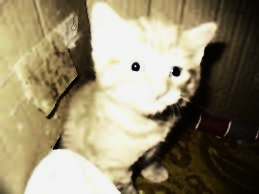
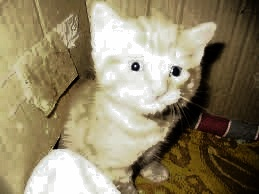
main merged

diff --git a/utils.py b/utils.py
@@ -1,0 +1,124 @@
+import cv2 as cv
+import matplotlib.pyplot as plt
+import numpy as np
+
+
+def RGB_to_intensity(img, eps=0.001):
+    bgr = np.float64(img)
+    SI = np.divide(bgr[:,:,0] + bgr[:,:,1] + bgr[:,:,2] + eps, 3 * 255)
+    return SI
+
+def intensity_to_gray(img):
+    return np.int32(np.round(img * 255, 0))
+
+def RGB_to_gray(img):
+    bgr = np.float64(img)
+    return np.int32(np.round(np.divide(bgr[:,:,0] + bgr[:,:,1] + bgr[:,:,2], 3), 0))
+
+def gray_to_intensity(img):
+    return np.divide(np.float64(img), 255)
+
+def read_img(path):
+    return cv.imread(path, cv.IMREAD_COLOR)
+
+def read_img_gray(path):
+    return cv.imread(path, cv.IMREAD_GRAYSCALE)
+
+
+def draw_matrix(matrix):
+    fig = plt.figure()
+    ax = fig.add_subplot(111, projection='3d')
+    X, Y = np.meshgrid(np.arange(matrix.shape[1]), np.arange(matrix.shape[0]))
+    ax.plot_surface(X, Y, matrix, cmap='viridis')
+    plt.show()
+
+
+def draw_2_matrixs(matrixs):
+    fig = plt.figure()
+    ax = fig.add_subplot(111, projection='3d')
+    X, Y = np.meshgrid(np.arange(matrixs[0].shape[1]), np.arange(matrixs[0].shape[0]))
+    ax.plot_surface(X, Y, matrixs[0], cmap='viridis')
+
+    fig = plt.figure()
+    bx = fig.add_subplot(111, projection='3d')
+    X, Y = np.meshgrid(np.arange(matrixs[1].shape[1]), np.arange(matrixs[1].shape[0]))
+    bx.plot_surface(X, Y, matrixs[1], cmap='viridis')
+    plt.show()
+
+
+def draw_2_matrixs_in_one(matrixs):
+    fig = plt.figure(figsize=(12,6))
+    ax = fig.add_subplot(121, projection='3d')
+    X, Y = np.meshgrid(np.arange(matrixs[0].shape[1]), np.arange(matrixs[0].shape[0]))
+    ax.plot_surface(X, Y, matrixs[0], cmap='viridis')
+    ax.set_title("figure1")
+
+    bx = fig.add_subplot(122, projection='3d')
+    X, Y = np.meshgrid(np.arange(matrixs[1].shape[1]), np.arange(matrixs[1].shape[0]))
+    bx.plot_surface(X, Y, matrixs[1], cmap='viridis')
+    bx.set_title("figure2")
+    plt.show()
+
+
+def show_image(image, title="default"):
+    cv.imshow(title, image)
+    cv.waitKey(0)
+    cv.destroyAllWindows()
+
+
+def show_images_concat(img1, img2):
+    if len(img1.shape) == 3:
+        n_rows = max(img1.shape[0], img2.shape[0])
+        canvas = np.zeros((n_rows, img1.shape[1] + img2.shape[1], img1.shape[2]), dtype=np.float64)
+
+        # 将img1和img2绘制到画布上
+        canvas[:img1.shape[0], :img1.shape[1], :] = img1
+        canvas[:img2.shape[0], img1.shape[1]:, :] = img2
+
+    else:
+        n_rows = max(img1.shape[0], img2.shape[0])
+        canvas = np.zeros((n_rows, img1.shape[1] + img2.shape[1]), dtype=np.float64)
+
+        # 将img1和img2绘制到画布上
+        canvas[:img1.shape[0], :img1.shape[1]] = img1
+        canvas[:img2.shape[0], img1.shape[1]:] = img2
+
+    # 显示画布
+    cv.imshow('Concat Image', canvas)
+    cv.waitKey(0)
+    cv.destroyAllWindows()
+
+
+def draw_histogram(hist, bins):
+    plt.figure()
+    plt.title("Histogram of Pixel Intensities")
+    plt.xlabel("Pixel Intensity")
+    plt.ylabel("Frequency")
+    plt.xlim([0, 256])  # 设置x轴的范围
+    plt.bar(bins[:-1], hist, width=1, align='edge')  # 绘制直方图
+    plt.show()
+
+
+def draw_histograms_in_one(hist1, bins1, hist2, bins2):
+    plt.figure(figsize=(12, 6))
+    plt.title("Histogram of Pixel Intensities")
+    plt.xlabel("Pixel Intensity")
+    plt.ylabel("Frequency")
+    plt.xlim([0, 256])  # 设置x轴的范围
+    plt.bar(bins1[:-1], hist1, width=1, align='edge')  # 绘制直方图1
+    plt.bar(bins2[:-1], hist2, width=1, align='edge')  # 绘制直方图2
+    plt.show()
+
+
+def restort_color(img, ori, new, eps = 0.001):
+    rows, columns = ori.shape
+    bgr = np.int32(img)
+    for i in range(rows):
+        for j in range(columns):
+            for k in range(3):
+                if ori[i][j] >= eps:
+                    bgr[i][j][k] = np.round(bgr[i][j][k] * new[i][j] / ori[i][j], 0)
+    return bgr
+
+def write_img(path, img):
+    cv.imwrite(path, img)

diff --git a/wgif.py b/wgif.py
@@ -1,4 +1,4 @@
-import cv2
+import cv2 as cv
 import numpy as np
 from math import *
 
@@ -21,8 +21,8 @@ def Grad_func(img):
         for j in range(1, img.shape[1]-1):
             Gij = []
             roi = img[i-1:i+2, j-1:j+2]
-            gx = cv2.Sobel(roi,cv2.CV_64F, 1, 0, ksize = 1)
-            gy = cv2.Sobel(roi, cv2.CV_64F, 0, 1, ksize = 1)
+            gx = cv.Sobel(roi,cv.CV_64F, 1, 0, ksize = 1)
+            gy = cv.Sobel(roi, cv.CV_64F, 0, 1, ksize = 1)
             gx = np.reshape(gx,(9, ))
             gy = np.reshape(gy,(9, ))
             Gij.append(gx)
@@ -95,14 +95,14 @@ def Weighted_Guided_Image_Filter(im, p, r, r2, eps, lamda, N):
     -------
     q : Output Image after WGIF application
     '''
-    mean_I = cv2.boxFilter(im,cv2.CV_64F,(r,r))
-    mean_I2  = cv2.boxFilter(im, cv2.CV_64F,(r2,r2))
-    mean_p = cv2.boxFilter(p, cv2.CV_64F,(r,r))
-    mean_p2 = cv2.boxFilter(p, cv2.CV_64F, (r2,r2))
+    mean_I = cv.boxFilter(im,cv.CV_64F,(r,r))
+    mean_I2  = cv.boxFilter(im, cv.CV_64F,(r2,r2))
+    mean_p = cv.boxFilter(p, cv.CV_64F,(r,r))
+    mean_p2 = cv.boxFilter(p, cv.CV_64F, (r2,r2))
     
-    corr_I = cv2.boxFilter(im*im, cv2.CV_64F,(r,r))
-    corr_I2 = cv2.boxFilter(im*im,cv2.CV_64F,(r2,r2))
-    corr_Ip = cv2.boxFilter(im*p,cv2.CV_64F,(r,r))
+    corr_I = cv.boxFilter(im*im, cv.CV_64F,(r,r))
+    corr_I2 = cv.boxFilter(im*im,cv.CV_64F,(r2,r2))
+    corr_Ip = cv.boxFilter(im*p,cv.CV_64F,(r,r))
     
     var_I = corr_I - mean_I*mean_I
     var_I2 = corr_I2 - mean_I2*mean_I2
@@ -113,8 +113,8 @@ def Weighted_Guided_Image_Filter(im, p, r, r2, eps, lamda, N):
     
     a_psi = cov_Ip/(var_I + eps/PsiI)
     b_psi = mean_p - (a_psi)*mean_I
-    mean_ap = cv2.boxFilter(a_psi,cv2.CV_64F,(r2,r2))
-    mean_bp = cv2.boxFilter(b_psi,cv2.CV_64F,(r2,r2))
+    mean_ap = cv.boxFilter(a_psi,cv.CV_64F,(r2,r2))
+    mean_bp = cv.boxFilter(b_psi,cv.CV_64F,(r2,r2))
     qp = mean_ap*im + mean_bp
     return qp
 
@@ -135,3 +135,39 @@ def get_WGIF(im):
     WGIF = Weighted_Guided_Image_Filter(im, im, r, rd, eps, lamda, N)
     return  WGIF
 
+def wgif_based_enhance(SI):
+    SIL = get_WGIF(SI)
+
+    rows, columns = SIL.shape
+    a = 1 - np.average(SIL)
+    SILG = np.zeros_like(SIL)
+    for i in range(rows):
+        for j in range(columns):
+            phi = (SIL[i][j] + a) / (1 + a)
+            SILG[i][j] = SIL[i][j] ** phi
+
+    SILGf = np.zeros_like(SILG)
+    minimum = np.min(SILG)
+    maximum = np.max(SILG)
+    for i in range(rows):
+        for j in range(columns):
+            SILGf[i][j] = (SILG[i][j] - minimum) / (maximum - minimum)
+
+    SIR = np.zeros_like(SIL)
+    for i in range(rows):
+        for j in range(columns):
+            SIR[i][j] = SI[i][j] / SIL[i][j]
+
+    SIRH = get_WGIF(SIR)
+    SIE = np.zeros_like(SIRH)
+    for i in range(rows):
+        for j in range(columns):
+            SIE[i][j] = SILGf[i][j] * SIRH[i][j]
+
+    b = np.average(SIE)
+    SIEf = np.zeros_like(SIE)
+    for i in range(rows):
+        for j in range(columns):
+            SIEf[i][j] = 1 / (1 + np.exp(-8 * (SIE[i][j] - b)))
+
+    return SIEf

diff --git a/main.py b/main.py
@@ -1,6 +1,12 @@
-from wgif import get_WGIF
-import cv2
-import numpy as np
+import wgif
+import utils
+import basic_he
+
+DRAW_HISTOGRAM = False
+DRAW_PICS = False
+DRAW_3D_MAP = False
+METHOD = ["Histogram_Equalize", "WGIF_Based_Enhance"][0]
+RESTORT_COLOR = True
 
 
 pic_list = [
@@ -15,48 +21,30 @@ pic_list = [
 ]
 
 for pic in pic_list:
+    img = utils.read_img("pics/" + pic)
+    gray_img = utils.RGB_to_gray(img)
+    intensity = utils.RGB_to_intensity(img)
+    if METHOD == "WGIF_Based_Enhance":
+        enhanced_intensity = wgif.wgif_based_enhance(intensity)
+        enhanced_gray_img = utils.intensity_to_gray(enhanced_intensity)
+    elif METHOD == "Histogram_Equalize":
+        enhanced_gray_img = basic_he.histogram_equalize(gray_img)
+        enhanced_intensity = utils.gray_to_intensity(enhanced_gray_img)
+    if DRAW_3D_MAP:
+        utils.draw_2_matrixs_in_one([gray_img, enhanced_gray_img])
+        
+    if DRAW_HISTOGRAM:
+        hist, bins = basic_he.get_histogram(gray_img)
+        new_hist, new_bins = basic_he.get_histogram(enhanced_gray_img)
+        utils.draw_histograms_in_one(hist, bins, new_hist, new_bins)
 
-    img = cv2.imread("./pics/" + pic, 1)
-    bgr = np.float64(img)
+    if RESTORT_COLOR:
+        enhanced_img = utils.restort_color(img, intensity, enhanced_intensity)
+    else:
+        img = gray_img
+        enhanced_img = enhanced_gray_img
 
-    SI = np.divide(bgr[:,:,0] + bgr[:,:,1] + bgr[:,:,2] + 0.001, 3 * 255)
-    SIL = get_WGIF(SI)
-
-    rows, columns = SIL.shape
-    a = 1 - np.average(SIL)
-    SILG = np.zeros_like(SIL)
-    for i in range(rows):
-        for j in range(columns):
-            phi = (SIL[i][j] + a) / (1 + a)
-            SILG[i][j] = SIL[i][j] ** phi
-
-    SILGf = np.zeros_like(SILG)
-    minimum = np.min(SILG)
-    maximum = np.max(SILG)
-    for i in range(rows):
-        for j in range(columns):
-            SILGf[i][j] = (SILG[i][j] - minimum) / (maximum - minimum)
-
-    SIR = np.zeros_like(SIL)
-    for i in range(rows):
-        for j in range(columns):
-            SIR[i][j] = SI[i][j] / SIL[i][j]
-
-    SIRH = get_WGIF(SIR)
-    SIE = np.zeros_like(SIRH)
-    for i in range(rows):
-        for j in range(columns):
-            SIE[i][j] = SILGf[i][j] * SIRH[i][j]
-
-    b = np.average(SIE)
-    SIEf = np.zeros_like(SIE)
-    for i in range(rows):
-        for j in range(columns):
-            SIEf[i][j] = 1 / (1 + np.exp(-8 * (SIE[i][j] - b)))
-
-    for i in range(rows):
-        for j in range(columns):
-            for k in range(3):
-                bgr[i][j][k] = bgr[i][j][k] * SIEf[i][j] / SI[i][j]
-
-    cv2.imwrite("results/" + pic.replace(".jpeg", ".jpg"), bgr)
+    if DRAW_PICS:
+        utils.show_images_concat(img, enhanced_img)
+    
+    utils.write_img("results/" + pic.replace(".jpeg", ".jpg"), enhanced_img)

diff --git a/basic_he.py b/basic_he.py
@@ -1,0 +1,22 @@
+import numpy as np
+from utils import *
+
+
+def get_histogram(image):
+    return np.histogram(image.flatten(), 256, (0, 256))
+
+
+def histogram_equalize(image):
+    # 计算直方图
+    hist, bins = get_histogram(image)
+    # 计算归一化累积直方图
+    norm_hist = hist / hist.sum()
+    acc_hist = np.cumsum(norm_hist)
+
+    # 计算转换映射
+    sk_map = (255 * acc_hist).astype(np.uint8)
+
+    # 应用转换函数
+    equalized_image = sk_map[image]
+
+    return equalized_image

diff --git a/README.md b/README.md
@@ -1,6 +1,23 @@
-# Histogram Equalization (advanced method)
+# Histogram Equalization
 ## 如何运行
 
-直接运行main.py, 输出彩色增强结果
-SIEf为灰度结果
+1. Python3.9.6，以及需要的lib
+2. 修改`main.py`中的`Flag`以选择要绘制的图形。
+3. 运行`main.py`以测试结果。
 
+## 项目结构
+
+- `main.py`：主测试脚本，用于运行和测试算法。
+- `basic_he.py`：包含基本的直方图均衡化算法实现。
+- `utils.py`：包含各种辅助函数，主要用于数据可视化。
+- `pics`：存放图像样本的文件夹。
+- `results`: 存放输出图像
+- `wgif`: 使用wgif增强图像的实现
+
+## Flag功能
+
+- `DRAW_HISTOGRAM`：绘制直方图。
+- `DRAW_PICS`：绘制原始和处理后的图片。
+- `DRAW_3D_MAP`：绘制3D可视化的灰度矩阵。
+- `METHOD`：选择方法
+- `RESTORT_COLOR`: 输出彩色图像
